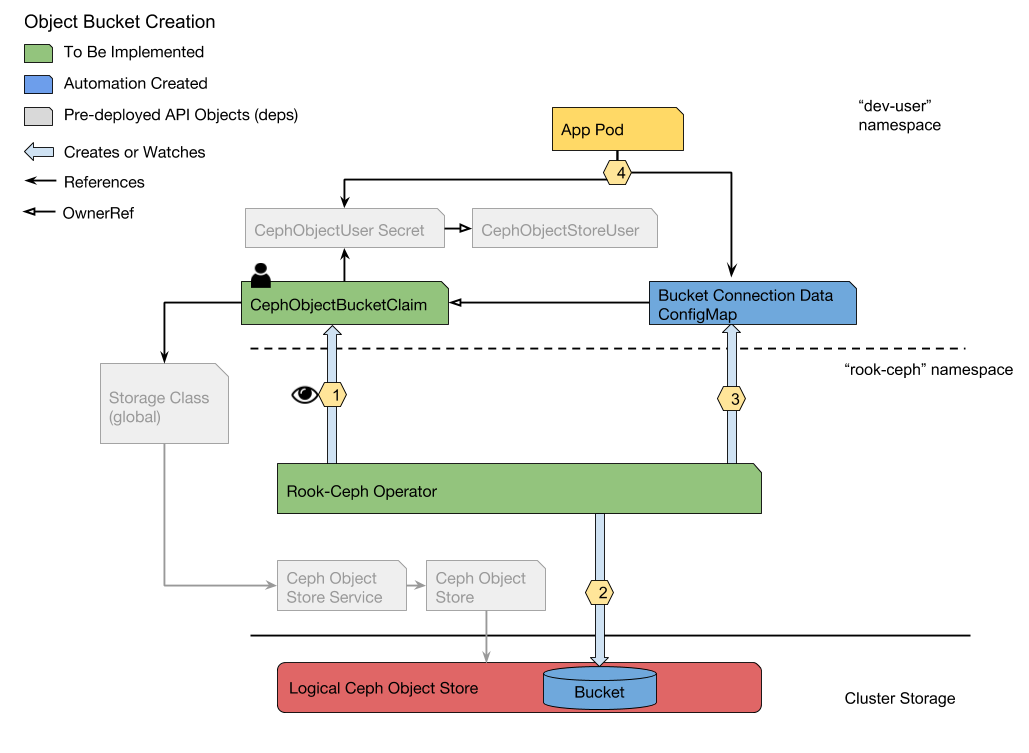
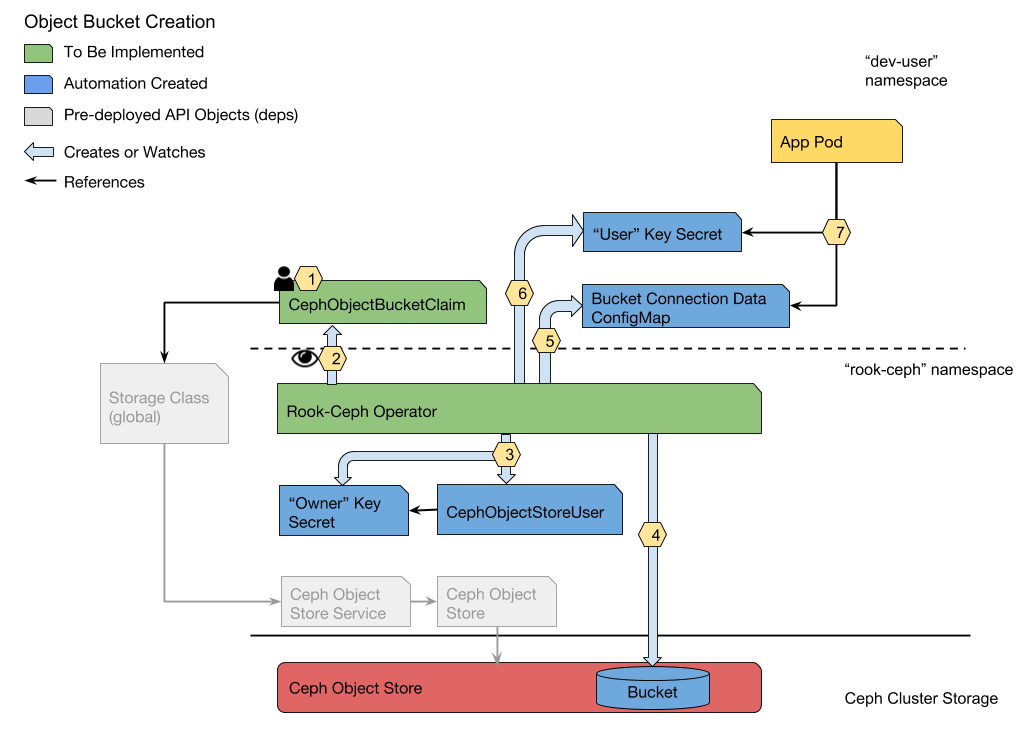
Added user action diagram, re-ordered user workflow

diff --git a/design/object-bucket/object-bucket.md b/design/object-bucket/object-bucket.md
@@ -56,18 +56,16 @@ As an admin, I want to expose an existing object store to cluster users so they 
 
 _As a Kubernetes user, I want to leverage the Kubernetes API to create Ceph Object Buckets. I expect to get back the bucket connection information in a Pod-attachable object._
  
- **TODO** Update user action diagram!
- 
 ![user-actions](./cobc-user.png)
 
 1. The user creates a CephObjectBucketClaim in their namespace.
 1. The operator detects the new ObjectBucketClaim instance.
     1. The operator derives the object store service via `storageClass.parameters.objectStoreNamespace` + `storageClass.parameters.objectStore`.
-    1. If a CephObjectUser for the CephObjectStore does not exist, the operator creates it and waits for the associated Secret.  This will give the operator **bucket** CREATE/GET/DELETE permissions in the object store.  This key is reused later and exists for the lifetime of the object store.
-1. The operator uses the radosgw-admin CLI to generate a **user** access key.  This key will be bound to the bucket with an **object** PUT/GET/DELETE ACL.
+1. If a CephObjectUser for the CephObjectStore does not exist, the operator creates it and waits for the associated Secret.  This will give the operator **bucket** CREATE/GET/DELETE permissions in the object store.  This key is reused later and exists for the lifetime of the object store.
 1. The operator creates the bucket using the service endpoint and CephObjectStoreUser **bucket** access key.
-1. The operator binds the **user** key to the bucket with an **object** PUT/GET/DELETE ACL.
 1. The operator creates or updates a ConfigMap in the namespace of the CephObjectBucketClaim with relevant connection data for that bucket.
+    1. The operator uses the radosgw-admin CLI to generate a **user** access key.  This key will be bound to the bucket with an **object** PUT/GET/DELETE ACL.
+    1. The operator binds the **user** key to the bucket with an **object** PUT/GET/DELETE ACL.
 1. The operator creates a Secret in the namespace of the CephObjectBucketClaim with the **user** key pair.
 1. An app Pod may then mount the Secret and the ConfigMap to begin accessing the bucket.
 
